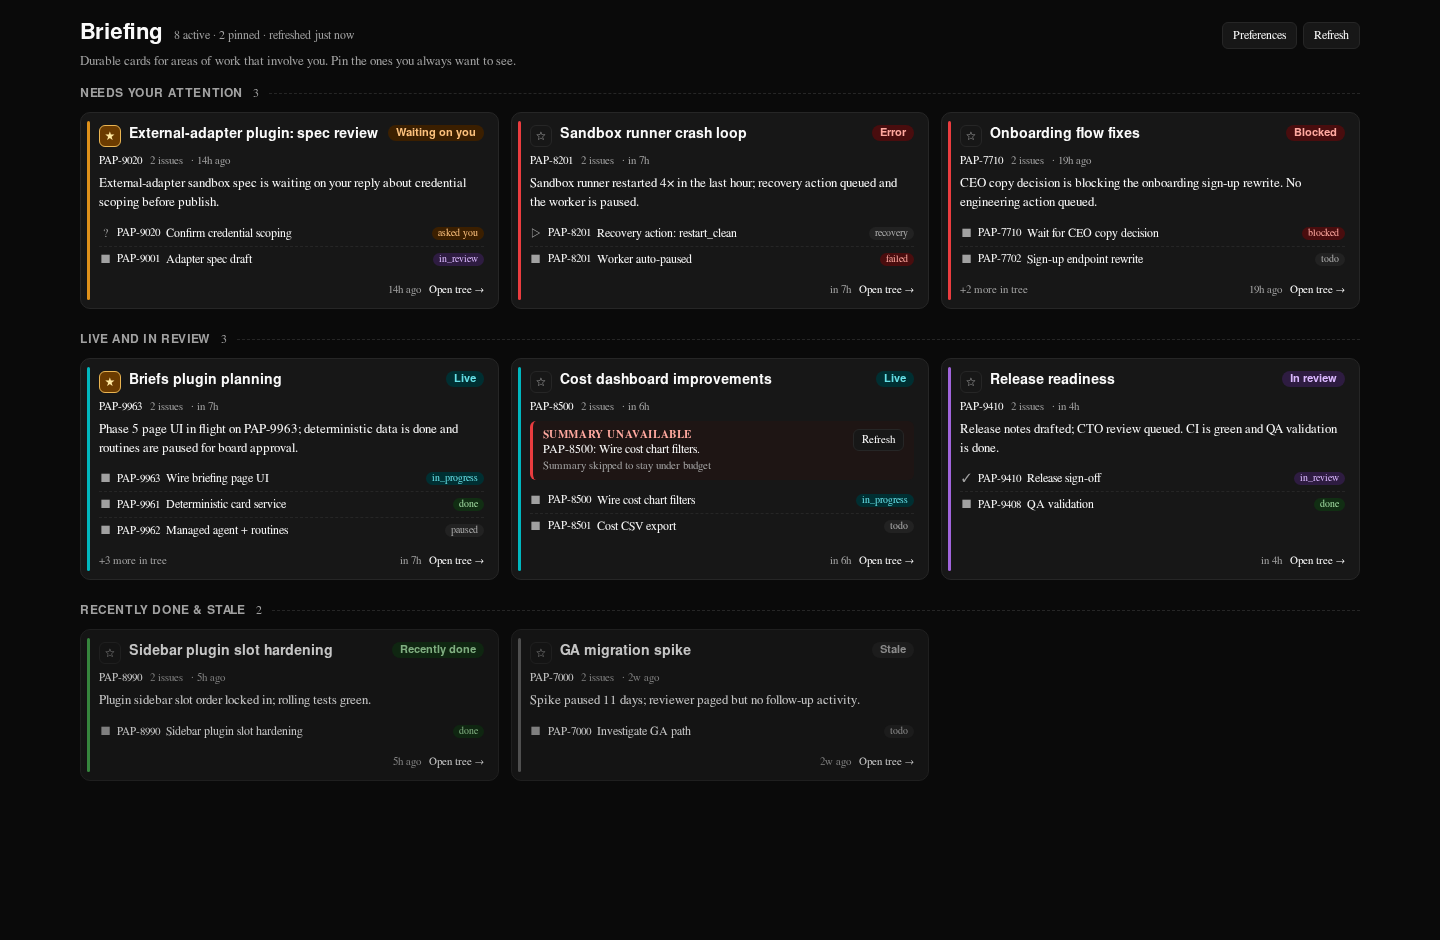
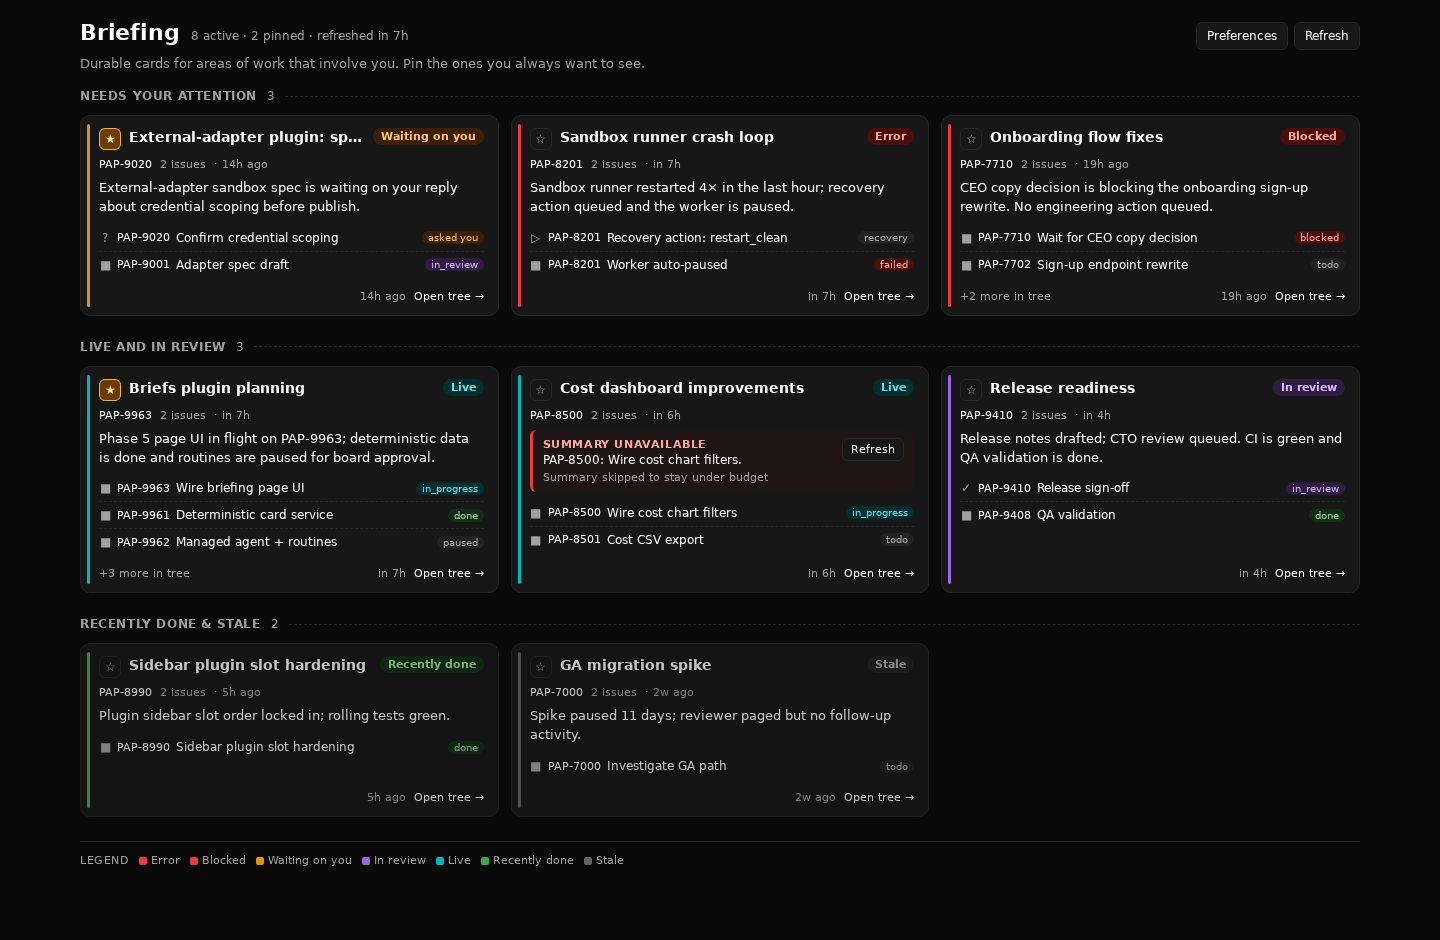
fix(briefs): make mobile section filter actually hide sections
The injected responsive stylesheet for the Briefing page tried to hide
section headers and non-active sections at <=700px, but the inline
`display: flex` on <section data-briefs-section> and its <header> beat
the attribute-selector rules on specificity. The result was that on a
real 390px render the MobileTabs toggle did nothing — every section
stayed visible.

Add `!important` to the two media-query rules so they win against the
inline styles, plus a small mobile reflow rule that drops the page-meta
line to its own row instead of orphaning the timestamp.

Also rebuild the screenshot fixture to mount the real <BriefingPage>
component (via the same SDK mock pattern the brief-card vitest already
uses) instead of hand-writing the page shell. The previous fixture
re-implemented the layout in static HTML and never rendered MobileTabs
or Legend, which masked the specificity bug and produced PNGs that
didn't match what a user actually sees.

Add briefing-page.spec.tsx as a regression guard for the chrome the
screenshot fixture exercises: MobileTabs sticky bar, Legend, the
data-mobile-hidden attribute on non-active sections, and the new header
data attributes.

Re-captured desktop, mobile, and empty-state PNGs against the real React
tree. The mobile shot now shows the All / Needs you / Live / Done tab
bar and only the active filter section.

Refs PAP-9963.

diff --git a/packages/plugins/plugin-briefs/tests/ui/screenshots.spec.tsx b/packages/plugins/plugin-briefs/tests/ui/screenshots.spec.tsx
@@ -5,14 +5,41 @@
  *
  * Skipped by default — set `BRIEFS_CAPTURE_SCREENSHOTS=1` to opt in.
  *
- * The flag avoids dragging Playwright into the regular fast unit-test run while
- * still letting CI / agents capture deterministic fixtures from the same view
- * components the host renders.
+ * Mounts the real `<BriefingPage>` component (the same React tree the host
+ * renders) so the captured PNGs reflect MobileTabs, Legend, and the live
+ * responsive CSS — not a hand-rolled approximation. The Paperclip plugin SDK
+ * is mocked so `usePluginData("page", …)` returns the gallery fixture.
  */
 import path from "node:path";
 import fs from "node:fs/promises";
 import { fileURLToPath, pathToFileURL } from "node:url";
 import { afterAll, describe, expect, it, vi } from "vitest";
+
+import type { BriefCard, BriefPreferences } from "../../src/contracts.js";
+import { gallery } from "./fixtures.js";
+
+type PageData = {
+  cards: BriefCard[];
+  preferences: BriefPreferences;
+  fetchedAt: string;
+};
+
+const defaultPreferences: BriefPreferences = {
+  companyId: "company-1",
+  userId: "user-1",
+  cadence: "daily",
+  retentionDays: 14,
+  doneRetentionHours: 48,
+  staleAfterDays: 7,
+  maxUnpinnedCards: 24,
+  scope: "user",
+};
+
+let mockPageData: PageData = {
+  cards: [],
+  preferences: defaultPreferences,
+  fetchedAt: "2026-05-22T10:00:00.000Z",
+};
 
 vi.mock("@paperclipai/plugin-sdk/ui", () => {
   return {
@@ -22,7 +49,12 @@ vi.mock("@paperclipai/plugin-sdk/ui", () => {
       linkProps: (to: string) => ({ href: to, onClick: () => {} }),
     }),
     usePluginAction: () => vi.fn(async () => ({ ok: true })),
-    usePluginData: () => ({ data: null, loading: false, error: null, refresh: () => {} }),
+    usePluginData: (key: string) => {
+      if (key === "page") {
+        return { data: mockPageData, loading: false, error: null, refresh: () => {} };
+      }
+      return { data: null, loading: false, error: null, refresh: () => {} };
+    },
     usePluginToast: () => vi.fn(),
     useHostLocation: () => ({ pathname: "/PAP/briefs", search: "", hash: "" }),
     usePluginStream: () => ({ events: [], lastEvent: null, connecting: false, connected: false, error: null, close: () => {} }),
@@ -30,9 +62,7 @@ vi.mock("@paperclipai/plugin-sdk/ui", () => {
 });
 
 import { renderToStaticMarkup } from "react-dom/server";
-import { BriefCardView } from "../../src/ui/app.js";
-import { groupCardsIntoSections } from "../../src/ui/view-model.js";
-import { gallery } from "./fixtures.js";
+import { BriefingPage } from "../../src/ui/app.js";
 
 const ENABLED = process.env.BRIEFS_CAPTURE_SCREENSHOTS === "1";
 
@@ -44,72 +74,53 @@ const outDir = path.resolve(repoRoot, "docs/pr-screenshots/pap-9963");
 const desktopWidth = 1440;
 const mobileWidth = 390;
 
-function staticPage({ cards, viewportWidth }: { cards: ReturnType<typeof gallery>; viewportWidth: number }) {
+const hostContext = {
+  companyId: "company-1",
+  companyPrefix: "PAP",
+  projectId: null,
+  entityId: null,
+  entityType: null,
+  userId: "user-1",
+} as const;
+
+function renderPageHtml({ cards, viewportWidth }: { cards: BriefCard[]; viewportWidth: number }): string {
+  mockPageData = { cards, preferences: defaultPreferences, fetchedAt: "2026-05-22T10:00:00.000Z" };
   const isMobile = viewportWidth < 700;
-  const sections = groupCardsIntoSections(cards);
-  const visibleSections = isMobile
-    ? sections.filter((section) => section.cards.length > 0).slice(0, 1).concat(sections.slice(1))
-    : sections;
-  const active = cards.filter((c) => !c.hidden);
-  const pinned = active.filter((c) => c.pinned).length;
+  // BriefingPage injects the responsive stylesheet via document.head on mount.
+  // SSR doesn't run that side effect, so we inline the same rules in the page
+  // <style>. Keep these in sync with the rules in src/ui/app.tsx.
+  const inlineCss = `
+    :root {
+      --background: oklch(0.145 0 0);
+      --foreground: oklch(0.985 0 0);
+      --card: oklch(0.205 0 0);
+      --border: oklch(0.269 0 0);
+      --muted-foreground: oklch(0.708 0 0);
+      --primary: oklch(0.985 0 0);
+      --primary-foreground: oklch(0.205 0 0);
+      --secondary: oklch(0.269 0 0);
+      --accent: oklch(0.269 0 0);
+    }
+    html, body { background: var(--background); color: var(--foreground); margin: 0; min-height: 100vh; }
+    body { font-family: ui-sans-serif, system-ui, -apple-system, sans-serif; }
+    a { color: inherit; }
+    @media (max-width: 700px) {
+      [data-briefs-mobile-tabs] { display: flex !important; }
+      [data-briefs-section] > header { display: none !important; }
+      [data-briefs-section][data-mobile-hidden="true"] { display: none !important; }
+      [data-briefs-grid] { grid-template-columns: 1fr !important; }
+      [data-briefs-page-header] > [data-briefs-page-meta] { flex-basis: 100% !important; order: 2 !important; }
+    }
+  `;
+  const body = renderToStaticMarkup(<BriefingPage context={hostContext as never} />);
   return `<!doctype html>
   <html lang="en">
     <head>
       <meta charset="utf-8" />
       <title>Briefing — ${isMobile ? "mobile" : "desktop"}</title>
-      <style>
-        :root {
-          --background: oklch(0.145 0 0);
-          --foreground: oklch(0.985 0 0);
-          --card: oklch(0.205 0 0);
-          --border: oklch(0.269 0 0);
-          --muted-foreground: oklch(0.708 0 0);
-          --primary: oklch(0.985 0 0);
-          --primary-foreground: oklch(0.205 0 0);
-          --secondary: oklch(0.269 0 0);
-          --accent: oklch(0.269 0 0);
-        }
-        html, body { background: var(--background); color: var(--foreground); margin: 0; min-height: 100vh; }
-        body { font-family: ui-sans-serif, system-ui, -apple-system, sans-serif; }
-        a { color: inherit; }
-        @media (max-width: 700px) {
-          [data-briefs-mobile-tabs] { display: flex !important; }
-          [data-briefs-section] > header { display: none; }
-          [data-briefs-section][data-mobile-hidden="true"] { display: none; }
-          [data-briefs-grid] { grid-template-columns: 1fr !important; }
-        }
-      </style>
+      <style>${inlineCss}</style>
     </head>
-    <body>
-      <div style="font-family: ui-sans-serif, system-ui, -apple-system, sans-serif; color: var(--foreground); padding: 20px clamp(12px, 4vw, 32px); max-width: 1280px; margin: 0 auto; min-height: 100vh;">
-        <header style="display: flex; flex-wrap: wrap; align-items: baseline; gap: 12px; margin-bottom: 6px;">
-          <h1 style="margin: 0; font-size: 22px; font-weight: 600;">Briefing</h1>
-          <div style="flex: 1; min-width: 0; font-size: 12px; color: var(--muted-foreground);">${active.length} active · ${pinned} pinned · refreshed just now</div>
-          <div style="display: flex; gap: 6px; align-items: center;">
-            <button style="padding: 6px 10px; border-radius: 6px; border: 1px solid var(--border); background: var(--card); color: var(--foreground); font-size: 12px;">Preferences</button>
-            <button style="padding: 6px 10px; border-radius: 6px; border: 1px solid var(--border); background: var(--card); color: var(--foreground); font-size: 12px;">Refresh</button>
-          </div>
-        </header>
-        <p style="margin: 0; margin-bottom: 18px; font-size: 13px; color: var(--muted-foreground);">Durable cards for areas of work that involve you. Pin the ones you always want to see.</p>
-        ${active.length === 0
-          ? `<div data-briefs-empty style="padding: 40px 24px; border: 1px dashed var(--border); border-radius: 10px; text-align: center; color: var(--muted-foreground);">
-              <div style="font-size: 15px; color: var(--foreground); font-weight: 600; margin-bottom: 4px;">No briefs yet</div>
-              <div style="font-size: 13px;">Cards appear here once the Briefing Analyst picks up recent work. Pinned cards never expire.</div>
-            </div>`
-          : visibleSections.map((section) => section.cards.length === 0 ? "" : `
-            <section data-briefs-section="${section.key}" style="display: flex; flex-direction: column; gap: 12px; margin-bottom: 24px;">
-              <header style="display: flex; align-items: center; gap: 10px;">
-                <h2 style="margin: 0; font-size: 12px; letter-spacing: 0.6px; color: var(--muted-foreground); text-transform: uppercase; font-weight: 600;">${section.label}</h2>
-                <span style="font-size: 12px; color: var(--muted-foreground);">${section.cards.length}</span>
-                <span style="flex: 1; border-bottom: 1px dashed var(--border);"></span>
-              </header>
-              <div data-briefs-grid style="display: grid; grid-template-columns: repeat(auto-fill, minmax(min(100%, 360px), 1fr)); gap: 12px;">
-                ${section.cards.map((card) => renderToStaticMarkup(<BriefCardView card={card} onChanged={() => {}} />)).join("")}
-              </div>
-            </section>
-          `).join("")}
-      </div>
-    </body>
+    <body>${body}</body>
   </html>`;
 }
 
@@ -132,9 +143,9 @@ describe.skipIf(!ENABLED)("Briefs screenshots", () => {
     const tmpDir = await fs.mkdtemp(path.join(__dirname, ".tmp-briefs-"));
     const cards = gallery();
 
-    const desktopHtml = staticPage({ cards, viewportWidth: desktopWidth });
-    const mobileHtml = staticPage({ cards, viewportWidth: mobileWidth });
-    const emptyHtml = staticPage({ cards: [], viewportWidth: desktopWidth });
+    const desktopHtml = renderPageHtml({ cards, viewportWidth: desktopWidth });
+    const mobileHtml = renderPageHtml({ cards, viewportWidth: mobileWidth });
+    const emptyHtml = renderPageHtml({ cards: [], viewportWidth: desktopWidth });
 
     const desktopFile = path.join(tmpDir, "briefing-desktop.html");
     const mobileFile = path.join(tmpDir, "briefing-mobile.html");

diff --git a/packages/plugins/plugin-briefs/tests/ui/briefing-page.spec.tsx b/packages/plugins/plugin-briefs/tests/ui/briefing-page.spec.tsx
@@ -1,0 +1,116 @@
+/**
+ * Regression tests for the Briefing page chrome — the parts the screenshot
+ * fixture used to skip (MobileTabs, Legend, responsive CSS injection).
+ *
+ * These tests served as the verification path for the UX review on PAP-9963:
+ * before the fix, the screenshot fixture hand-wrote the page shell and never
+ * exercised these components, which masked a CSS-specificity bug that broke
+ * the mobile section filter. Asserting on the real `<BriefingPage>` output
+ * keeps that gap closed.
+ */
+import { describe, expect, it, vi } from "vitest";
+
+import type { BriefCard, BriefPreferences } from "../../src/contracts.js";
+import { gallery } from "./fixtures.js";
+
+type PageData = {
+  cards: BriefCard[];
+  preferences: BriefPreferences;
+  fetchedAt: string;
+};
+
+const defaultPreferences: BriefPreferences = {
+  companyId: "company-1",
+  userId: "user-1",
+  cadence: "daily",
+  retentionDays: 14,
+  doneRetentionHours: 48,
+  staleAfterDays: 7,
+  maxUnpinnedCards: 24,
+  scope: "user",
+};
+
+let mockPageData: PageData = {
+  cards: [],
+  preferences: defaultPreferences,
+  fetchedAt: "2026-05-22T10:00:00.000Z",
+};
+
+vi.mock("@paperclipai/plugin-sdk/ui", () => {
+  return {
+    useHostNavigation: () => ({
+      resolveHref: (to: string) => to,
+      navigate: () => {},
+      linkProps: (to: string) => ({ href: to, onClick: () => {} }),
+    }),
+    usePluginAction: () => vi.fn(async () => ({ ok: true })),
+    usePluginData: (key: string) => {
+      if (key === "page") {
+        return { data: mockPageData, loading: false, error: null, refresh: () => {} };
+      }
+      return { data: null, loading: false, error: null, refresh: () => {} };
+    },
+    usePluginToast: () => vi.fn(),
+    useHostLocation: () => ({ pathname: "/PAP/briefs", search: "", hash: "" }),
+    usePluginStream: () => ({ events: [], lastEvent: null, connecting: false, connected: false, error: null, close: () => {} }),
+  };
+});
+
+import { renderToStaticMarkup } from "react-dom/server";
+import { BriefingPage } from "../../src/ui/app.js";
+
+const hostContext = {
+  companyId: "company-1",
+  companyPrefix: "PAP",
+  projectId: null,
+  entityId: null,
+  entityType: null,
+  userId: "user-1",
+} as const;
+
+function renderPage(cards: BriefCard[]): string {
+  mockPageData = { cards, preferences: defaultPreferences, fetchedAt: "2026-05-22T10:00:00.000Z" };
+  return renderToStaticMarkup(<BriefingPage context={hostContext as never} />);
+}
+
+describe("BriefingPage", () => {
+  it("renders the MobileTabs sticky bar so it appears in screenshots", () => {
+    const html = renderPage(gallery());
+    expect(html).toContain("data-briefs-mobile-tabs");
+    expect(html).toMatch(/aria-label="Briefing sections"/);
+    // All four tabs must be present: All / Needs you / Live / Done.
+    expect(html).toContain(">All<");
+    expect(html).toContain(">Needs you<");
+    expect(html).toContain(">Live<");
+    expect(html).toContain(">Done<");
+  });
+
+  it("renders the Legend below the section grid", () => {
+    const html = renderPage(gallery());
+    expect(html).toContain("data-briefs-legend");
+  });
+
+  it("marks non-active sections with data-mobile-hidden so the CSS filter has a target", () => {
+    const html = renderPage(gallery());
+    // The default mobile tab is "attention", so every other section must be
+    // tagged hidden. Without the CSS `!important` fix, this attribute existed
+    // but did nothing — the test still guards the data contract.
+    expect(html).toContain('data-briefs-section="live"');
+    expect(html).toContain('data-briefs-section="settled"');
+    expect(html).toMatch(/data-briefs-section="live"[^>]*data-mobile-hidden="true"/);
+    expect(html).toMatch(/data-briefs-section="settled"[^>]*data-mobile-hidden="true"/);
+  });
+
+  it("tags the page header meta block so mobile reflow CSS can reorder it", () => {
+    const html = renderPage(gallery());
+    expect(html).toContain("data-briefs-page-header");
+    expect(html).toContain("data-briefs-page-meta");
+  });
+
+  it("renders the empty state without rendering MobileTabs or sections", () => {
+    const html = renderPage([]);
+    expect(html).not.toContain("data-briefs-mobile-tabs");
+    expect(html).not.toContain("data-briefs-section");
+    expect(html).toContain("No briefs yet");
+  });
+});

diff --git a/packages/plugins/plugin-briefs/src/ui/app.tsx b/packages/plugins/plugin-briefs/src/ui/app.tsx
@@ -182,9 +182,9 @@ function PageShell({ children, meta, action, preferences }: {
 }) {
   return (
     <div style={{ fontFamily: fontStack, color: tokens.fg, padding: "20px clamp(12px, 4vw, 32px)", maxWidth: 1280, margin: "0 auto", minHeight: "100vh" }}>
-      <header style={{ display: "flex", flexWrap: "wrap", alignItems: "baseline", gap: 12, marginBottom: 6 }}>
+      <header data-briefs-page-header style={{ display: "flex", flexWrap: "wrap", alignItems: "baseline", gap: 12, marginBottom: 6 }}>
         <h1 style={{ margin: 0, fontSize: 22, fontWeight: 600, letterSpacing: -0.2 }}>Briefing</h1>
-        <div style={{ flex: 1, minWidth: 0, fontSize: 12, color: tokens.muted, overflow: "hidden", textOverflow: "ellipsis" }}>{meta}</div>
+        <div data-briefs-page-meta style={{ flex: 1, minWidth: 0, fontSize: 12, color: tokens.muted, overflow: "hidden", textOverflow: "ellipsis" }}>{meta}</div>
         <div style={{ display: "flex", gap: 6, alignItems: "center" }}>
           {preferences}
           {action}
@@ -946,12 +946,16 @@ function ErrorPanel({ message, onRetry }: { message: string; onRetry: () => void
 if (typeof document !== "undefined" && !document.getElementById("briefs-plugin-styles")) {
   const style = document.createElement("style");
   style.id = "briefs-plugin-styles";
+  // !important is required so these rules win against the inline
+  // style attributes set on <section data-briefs-section> and its <header>;
+  // attribute-selector specificity (0,1,1) loses to inline (1,0,0,0) otherwise.
   style.textContent = `
     @media (max-width: 700px) {
       [data-briefs-mobile-tabs] { display: flex !important; }
-      [data-briefs-section] > header { display: none; }
-      [data-briefs-section][data-mobile-hidden="true"] { display: none; }
+      [data-briefs-section] > header { display: none !important; }
+      [data-briefs-section][data-mobile-hidden="true"] { display: none !important; }
       [data-briefs-grid] { grid-template-columns: 1fr !important; }
+      [data-briefs-page-header] > [data-briefs-page-meta] { flex-basis: 100% !important; order: 2 !important; }
     }
   `;
   document.head.appendChild(style);
